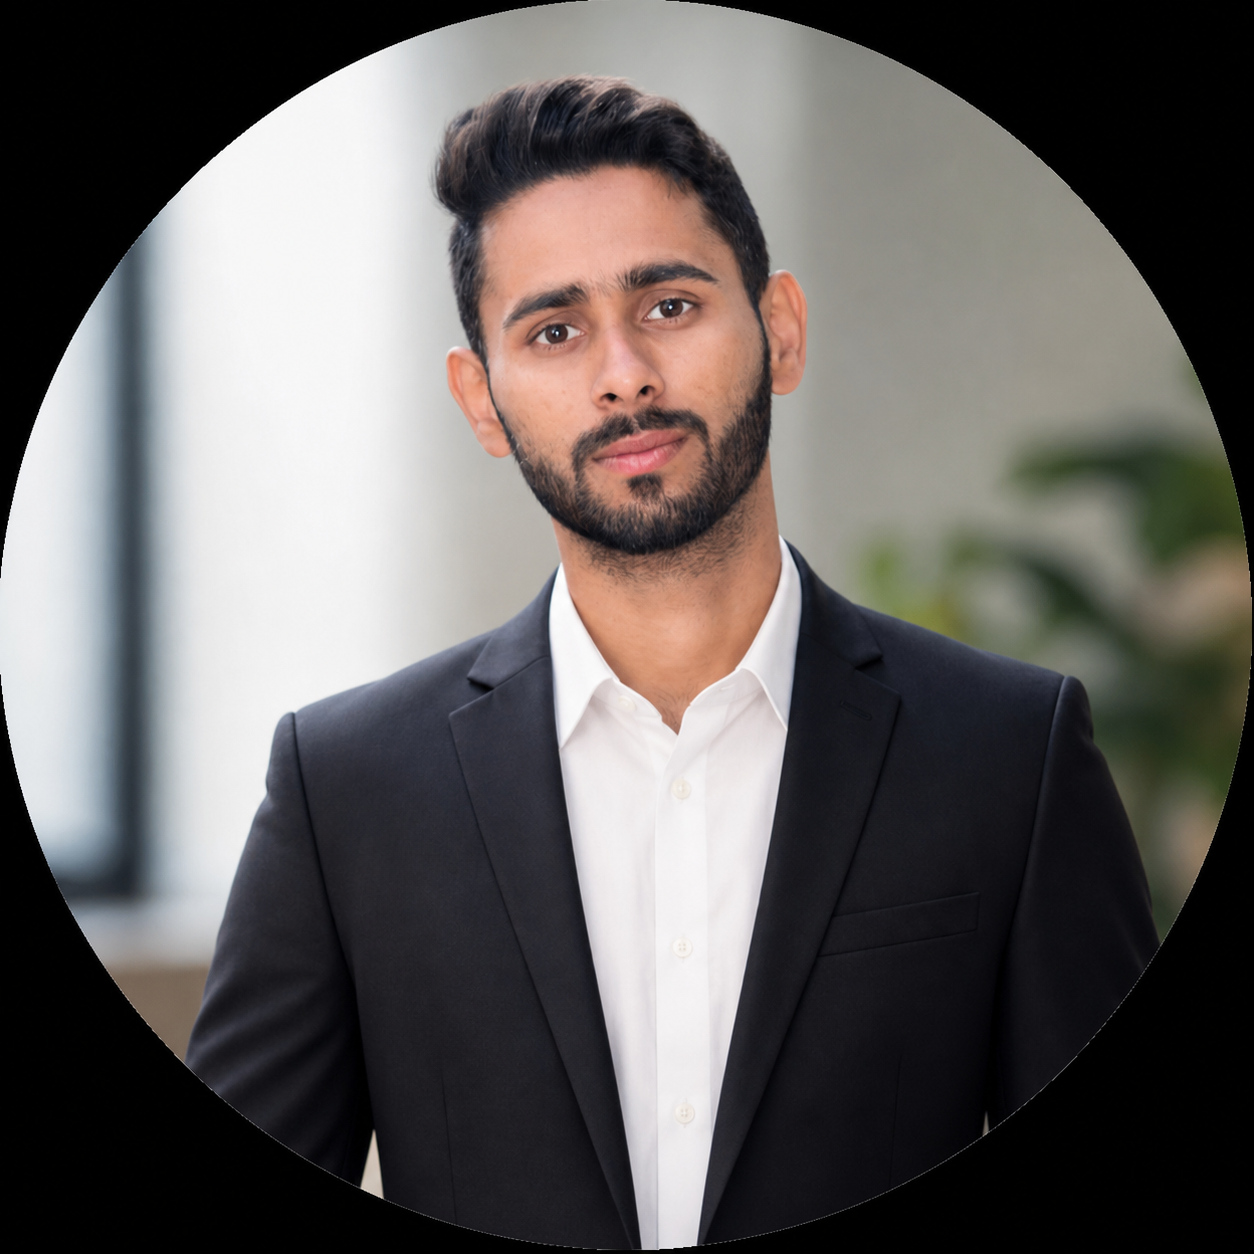
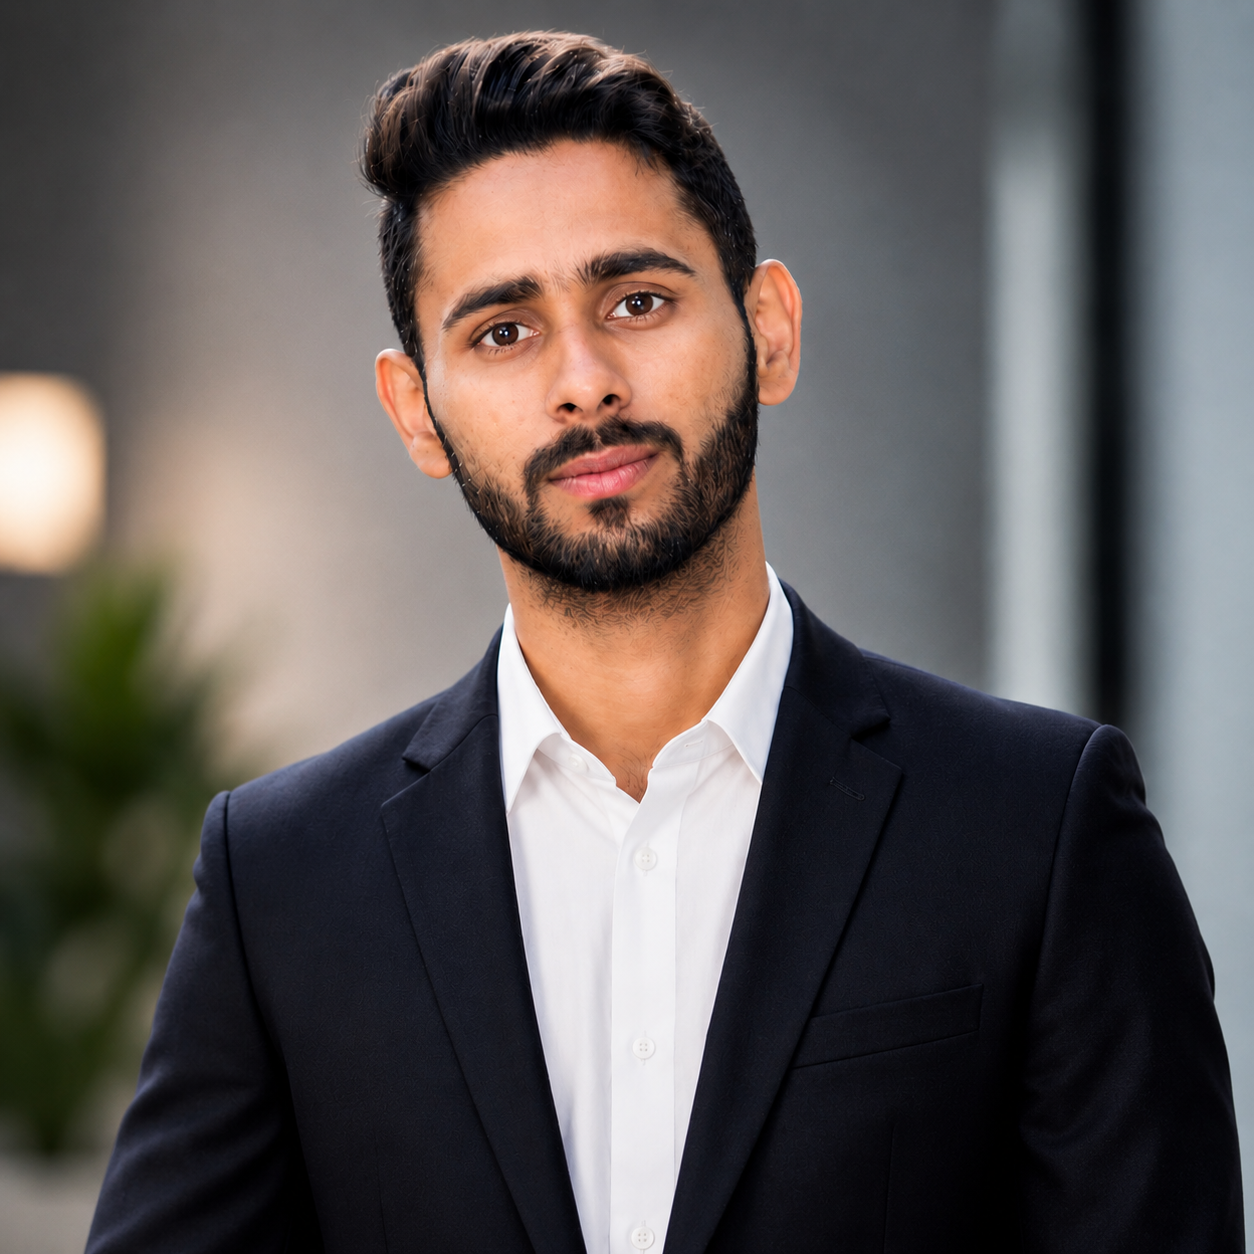
changes

diff --git a/src/components/Hero.jsx b/src/components/Hero.jsx
@@ -7,7 +7,7 @@ function Hero() {
         <div className="hero-content flex-col lg:flex-row-reverse">
           <div data-aos="fade-up-left">
             <img
-              src="profile1.png"
+              src="profile.png"
               className="max-w-sm rounded-lg shadow-2xl"
             />
           </div>
